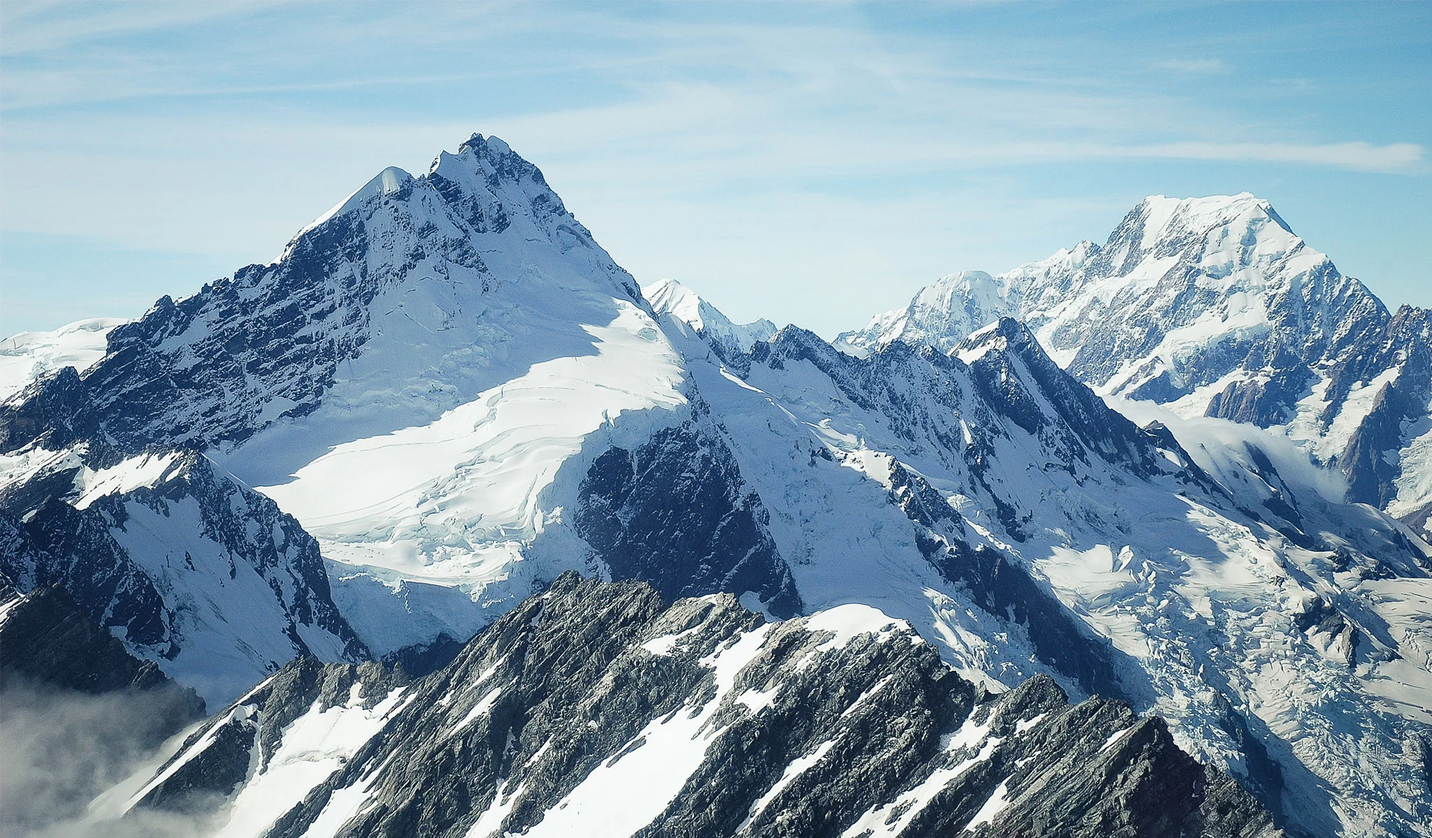
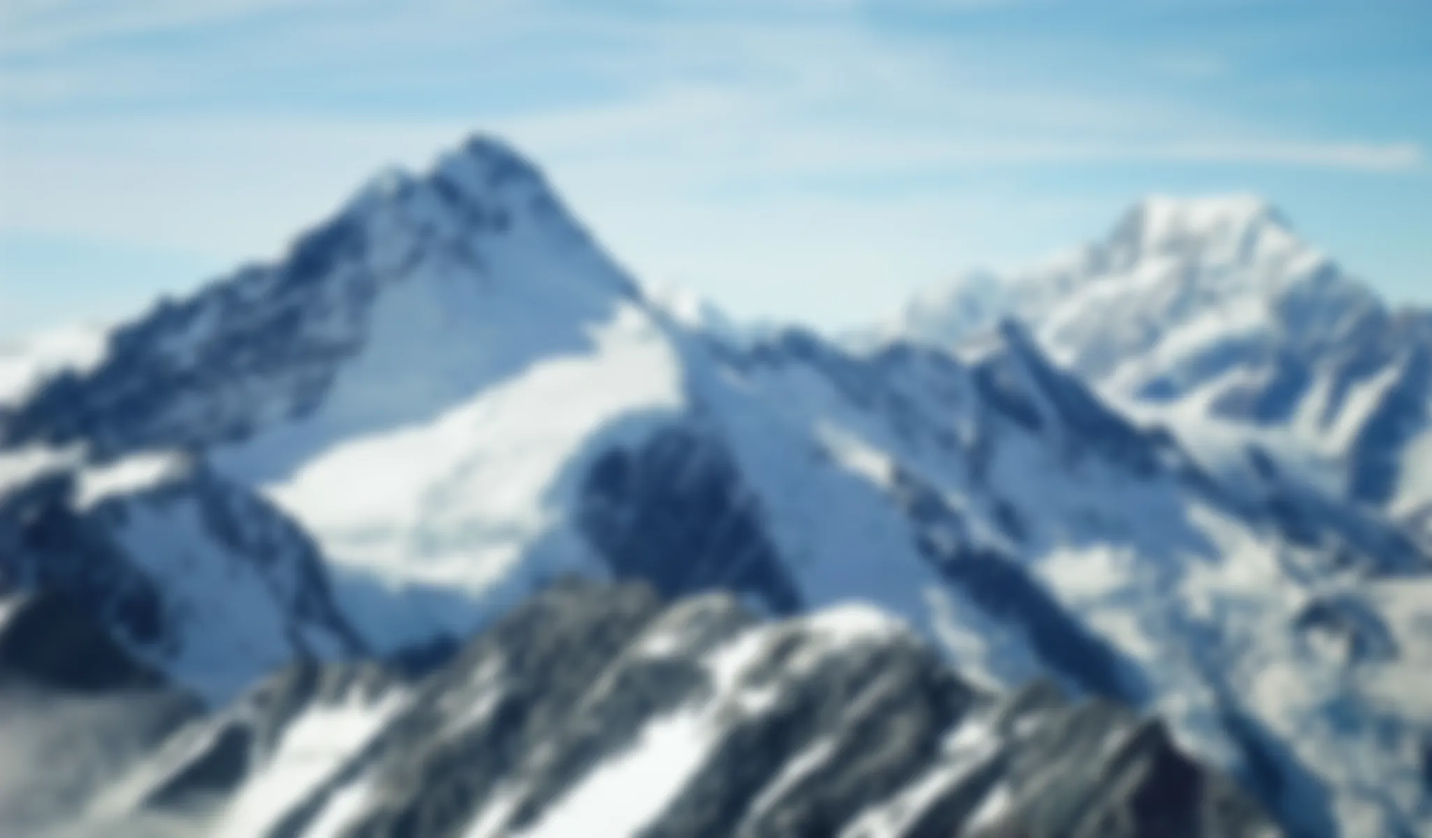
reduced file size of 2 hero images
They are now from mb to kbs

diff --git a/assets/css/style.css b/assets/css/style.css
@@ -17,6 +17,7 @@
   --background_colour_2 : #fff;
   --header_colour : #282828;
   --background_img: url("../img/hero-bg.webp") ;
+  --sectionimg : url(../img/section-title-bg.webp)
 }
 
 .dark-mode {
@@ -24,6 +25,8 @@
   --background_colour_2: #474747;
   --header_colour : #fff;
   --background_img: url("../img/hero-bg-2.webp") ;
+  --sectionimg : url(../img/section-title-bg-2.webp)
+
   color: #fff;
 }
 
@@ -33,14 +36,29 @@
   align-items: center;
   justify-content: space-between;
   padding: 8px 16px;
-  margin-left: 50x;
+  margin-left: 50px;
   font-family: "Raleway", sans-serif;
   font-size: 16px;
   font-weight: 700;
-  color: #67b0d1;
+  color: var(--background_colour);
   white-space: nowrap;
   transition: 0.3s;
   border-radius: 50%;
+}
+
+.time_button{
+  background-color: var(--background_colour_2) ;
+  align-items: center;
+  font-family: "Raleway", sans-serif;
+  font-size: 16px;
+  font-weight: 700;
+  color: var(--header_colour);
+  white-space: nowrap;
+  transition: 0.3s;
+  border-radius: 25%;
+  margin: 0;
+  top: 50%;
+  left: 50%;
 }
 
 body {
@@ -560,7 +578,7 @@ section {
   width: 122px;
   height: 66px;
   background-color: var(--background_colour_2) ;
-  background: url(../img/section-title-bg.webp) no-repeat;
+  background: var(--sectionimg);
   z-index: -1;
 }
 
@@ -1074,7 +1092,7 @@ section {
 
 .testimonials .testimonial-item .quote-icon-left,
 .testimonials .testimonial-item .quote-icon-right {
-  color: var(--background_colour_2);
+  color: var(--background_colour);
   font-size: 26px;
 }
 
@@ -1095,11 +1113,12 @@ section {
   font-style: italic;
   margin: 0 15px 15px 15px;
   padding: 20px;
-  background: var(--background_colour_2);
+  background: var(--background_colour);
   position: relative;
   margin-bottom: 35px;
   border-radius: 6px;
   box-shadow: 0px 2px 15px rgba(0, 0, 0, 1);
+  color:var(--header_colour)
 }
 
 .testimonials .testimonial-item p::after {
@@ -1122,7 +1141,7 @@ section {
 .testimonials .swiper-pagination .swiper-pagination-bullet {
   width: 12px;
   height: 12px;
-  background-color: var(--background_colour_2);
+  background-color: var(--background_colour);
   opacity: 1;
   border: 1px solid var(--background_colour);
 }
@@ -1134,6 +1153,10 @@ section {
 /*--------------------------------------------------------------
 # Team
 --------------------------------------------------------------*/
+.team{
+  background-color: var(--background_colour_2);
+}
+
 .team .member {
   text-align: center;
   margin-bottom: 80px;
@@ -1183,6 +1206,7 @@ section {
 }
 
 .team .member span {
+  
   font-style: italic;
   display: block;
   font-size: 13px;

diff --git a/index.html b/index.html
@@ -558,10 +558,10 @@
         <!-- You can delete the links only if you purchased the pro version. -->
         <!-- Licensing information: https://bootstrapmade.com/license/ -->
         <!-- Purchase the pro version with working PHP/AJAX contact form: https://bootstrapmade.com/squadfree-free-bootstrap-template-creative/ -->
-        Designed by <a href="https://bootstrapmade.com/">BootstrapMade</a>
+        Designed by Faheem
       </div>
       <div class="credits">
-        <button type="button" onclick="doit()">
+        <button type="button" onclick="doit()" class="time_button">
           Click me to display elapsed Time.
         </button>
         <p id="myPara"> </p>
